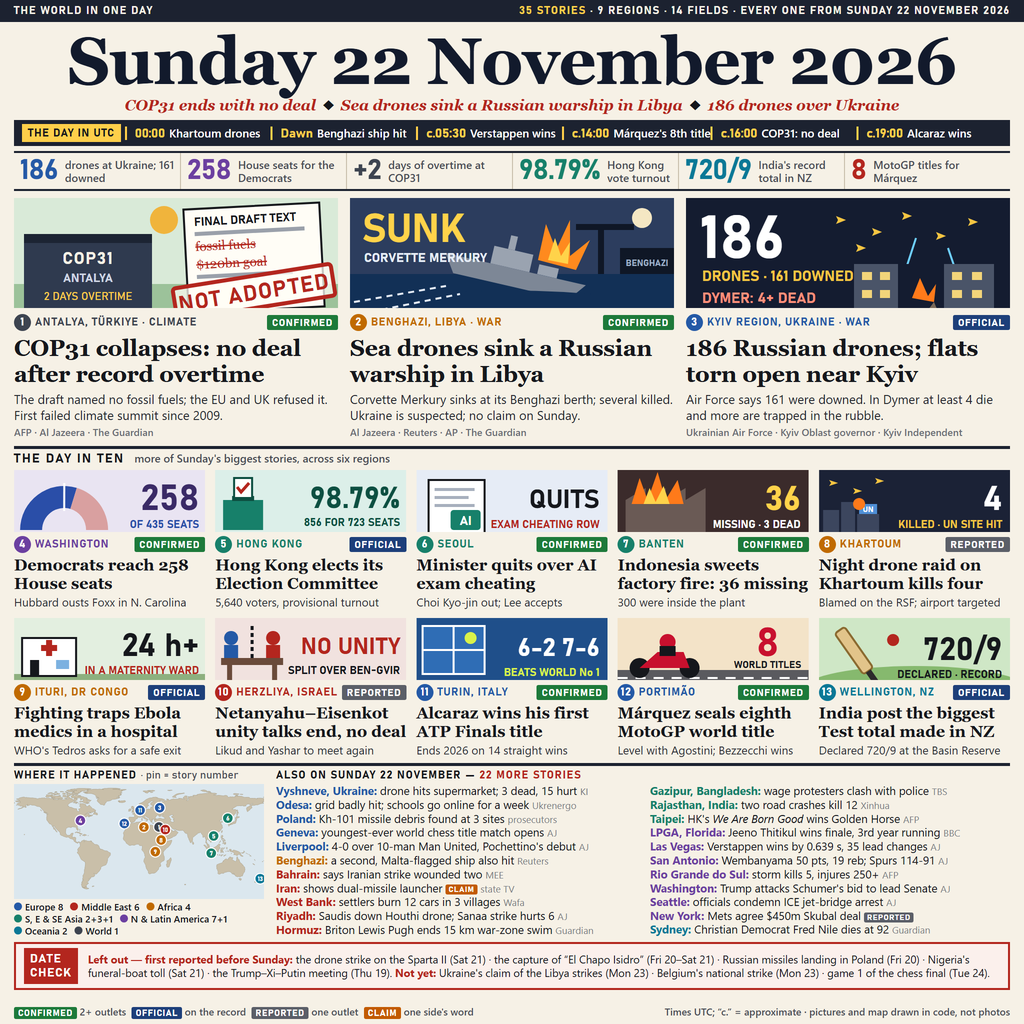
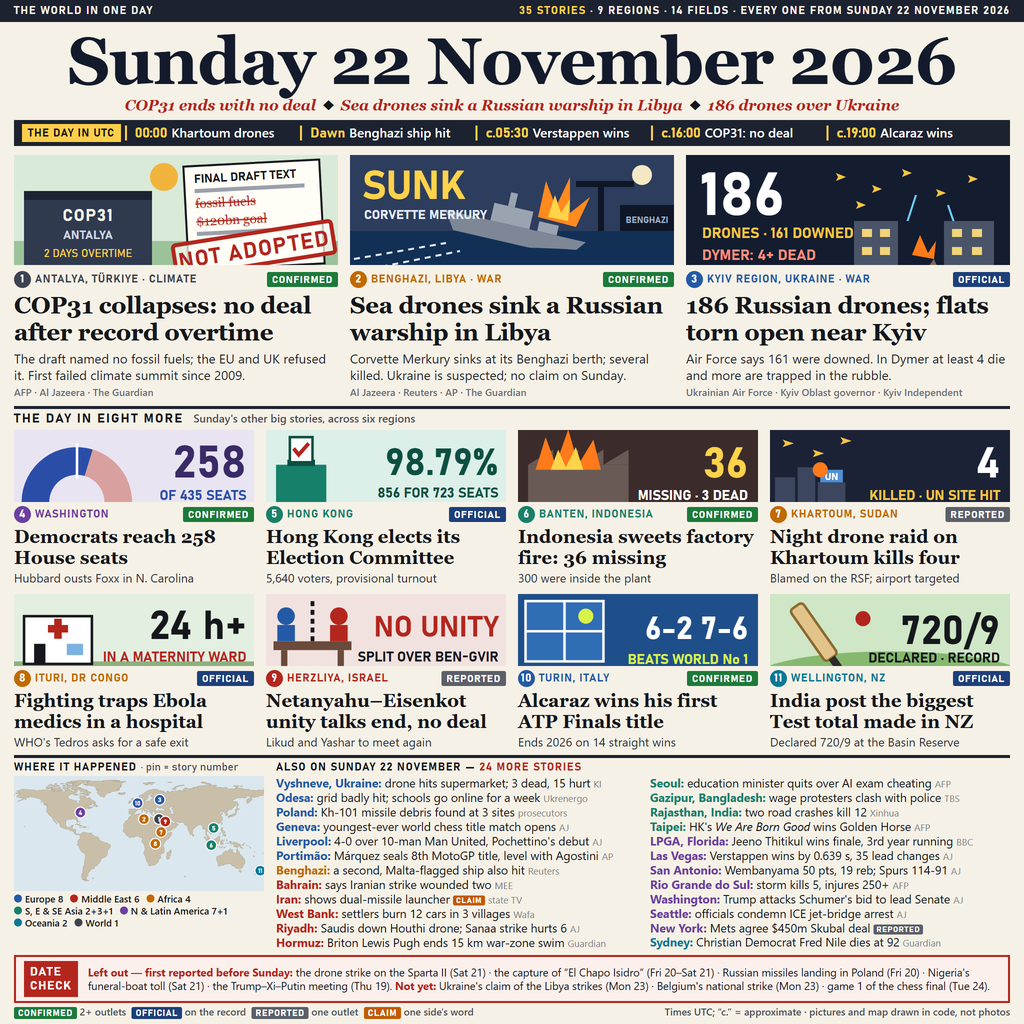
v2: eight wider cards with larger type, no numbers strip, 24 briefs

diff --git a/src/front.html b/src/front.html
@@ -29,8 +29,8 @@
   .tl { margin: 5px 14px 0; height: 26px; background: var(--rule); color: #fff; display: flex; align-items: center;
     padding: 0 8px; gap: 0; }
   .tl .lab { white-space: nowrap; font: 700 11px/1 Bahnschrift, sans-serif; color: #15171c; background: #ffcf4a; padding: 4px 6px 3px; letter-spacing: .06em; margin-right: 4px; }
-  .tl .ev { flex: 1; font: 600 11.5px/1.1 "Segoe UI", sans-serif; white-space: nowrap; padding-left: 8px; border-left: 2px solid #ffcf4a; }
-  .tl .ev b { font: 700 13px/1 Bahnschrift, sans-serif; color: #ffcf4a; margin-right: 4px; }
+  .tl .ev { flex: 1; font: 600 13px/1.1 "Segoe UI", sans-serif; white-space: nowrap; padding-left: 8px; border-left: 2px solid #ffcf4a; }
+  .tl .ev b { font: 700 14px/1 Bahnschrift, sans-serif; color: #ffcf4a; margin-right: 4px; }
 
   /* numbers */
   .nums { margin: 5px 14px 0; display: grid; grid-template-columns: repeat(6, 1fr); border-top: 2px solid var(--rule); border-bottom: 2px solid var(--rule); }
@@ -46,22 +46,22 @@
   .no { display: inline-block; width: 17px; height: 17px; border-radius: 50%; color: #fff; font: 700 11px/17px Bahnschrift, sans-serif; text-align: center; margin-right: 4px; vertical-align: middle; }
 
   /* leads */
-  .leads { margin: 7px 14px 0; display: grid; grid-template-columns: repeat(3, 1fr); gap: 12px; }
+  .leads { margin: 9px 14px 0; display: grid; grid-template-columns: repeat(3, 1fr); gap: 12px; }
   .lead svg { display: block; width: 100%; height: 110px; }
   .lead .meta { display: flex; justify-content: space-between; align-items: center; margin-top: 6px; }
-  .lead h2 { font: 700 23px/26px Georgia, serif; margin-top: 4px; letter-spacing: -.2px; }
-  .lead p { font: 400 12.5px/16px "Segoe UI", sans-serif; color: #24272e; margin-top: 4px; }
+  .lead h2 { font: 700 24px/27px Georgia, serif; margin-top: 4px; letter-spacing: -.3px; }
+  .lead p { font: 400 13px/16.5px "Segoe UI", sans-serif; color: #24272e; margin-top: 4px; }
   .src { font: 600 10px/12px "Segoe UI", sans-serif; color: #6a6d74; margin-top: 3px; }
 
   /* cards */
   .sec { margin: 8px 14px 0; display: flex; align-items: baseline; gap: 10px; border-top: 3px solid var(--rule); padding-top: 3px; }
   .sec h3 { font: 700 13px/1 Bahnschrift, sans-serif; letter-spacing: .1em; }
   .sec span { font: 600 11px/1 "Segoe UI", sans-serif; color: var(--soft); }
-  .cards { margin: 5px 14px 0; display: grid; grid-template-columns: repeat(5, 1fr); gap: 9px 10px; }
-  .card svg { display: block; width: 100%; height: 62px; }
+  .cards { margin: 5px 14px 0; display: grid; grid-template-columns: repeat(4, 1fr); gap: 9px 12px; }
+  .card svg { display: block; width: 100%; height: 72px; }
   .card .meta { display: flex; justify-content: space-between; align-items: center; margin-top: 4px; }
-  .card h4 { font: 700 16px/18.5px Georgia, serif; margin-top: 3px; }
-  .card p { font: 400 11.5px/14px "Segoe UI", sans-serif; color: #2b2e35; margin-top: 2px; }
+  .card h4 { font: 700 18.5px/21px Georgia, serif; margin-top: 3px; }
+  .card p { font: 400 12px/15px "Segoe UI", sans-serif; color: #2b2e35; margin-top: 2px; }
 
   /* bottom */
   .bottom { margin: 6px 14px 0; display: grid; grid-template-columns: 250px 1fr; gap: 12px; border-top: 3px solid var(--rule); padding-top: 4px; }
@@ -73,7 +73,7 @@
   .also h3 { font: 700 11px/1 Bahnschrift, sans-serif; letter-spacing: .08em; }
   .also h3 b { color: var(--me); }
   .also ul { list-style: none; columns: 2; column-gap: 14px; margin-top: 3px; }
-  .also li { font: 400 11.3px/13.4px "Segoe UI", sans-serif; white-space: nowrap; overflow: hidden; }
+  .also li { font: 400 11.8px/14px "Segoe UI", sans-serif; white-space: nowrap; overflow: hidden; }
   .also li b { font-weight: 700; }
   .also li em { font-style: normal; color: #7a7d84; font-size: 9.5px; }
 
@@ -96,19 +96,10 @@
   <div class="ev"><b>00:00</b>Khartoum drones</div>
   <div class="ev"><b>Dawn</b>Benghazi ship hit</div>
   <div class="ev"><b>c.05:30</b>Verstappen wins</div>
-  <div class="ev"><b>c.14:00</b>Márquez's 8th title</div>
   <div class="ev"><b>c.16:00</b>COP31: no deal</div>
   <div class="ev"><b>c.19:00</b>Alcaraz wins</div>
 </div>
 
-<div class="nums">
-  <div class="num"><div class="n" style="color:var(--eu)">186</div><div class="t">drones at Ukraine; 161 downed</div></div>
-  <div class="num"><div class="n" style="color:var(--am)">258</div><div class="t">House seats for the Democrats</div></div>
-  <div class="num"><div class="n" style="color:var(--gl)">+2</div><div class="t">days of overtime at COP31</div></div>
-  <div class="num"><div class="n" style="color:var(--as)">98.79%</div><div class="t">Hong Kong vote turnout</div></div>
-  <div class="num"><div class="n" style="color:var(--oc)">720/9</div><div class="t">India's record total in NZ</div></div>
-  <div class="num"><div class="n" style="color:var(--me)">8</div><div class="t">MotoGP titles for Márquez</div></div>
-</div>
 
 <div class="leads">
   <!-- 1 COP31 -->
@@ -205,11 +196,11 @@
   </div>
 </div>
 
-<div class="sec"><h3>THE DAY IN TEN</h3><span>more of Sunday's biggest stories, across six regions</span></div>
+<div class="sec"><h3>THE DAY IN EIGHT MORE</h3><span>Sunday's other big stories, across six regions</span></div>
 <div class="cards">
   <!-- 4 Democrats -->
   <div class="card">
-    <svg viewBox="0 0 191 62" xmlns="http://www.w3.org/2000/svg">
+    <svg viewBox="0 0 191 62" preserveAspectRatio="xMidYMid slice" xmlns="http://www.w3.org/2000/svg">
       <rect width="191" height="66" fill="#e9e4f2"/>
       {{SEAT_ARC}}
       <text x="185" y="40" font-family="Bahnschrift" font-weight="700" font-size="36" fill="#3a2a66" text-anchor="end">258</text>
@@ -221,7 +212,7 @@
   </div>
   <!-- 5 Hong Kong -->
   <div class="card">
-    <svg viewBox="0 0 191 62" xmlns="http://www.w3.org/2000/svg">
+    <svg viewBox="0 0 191 62" preserveAspectRatio="xMidYMid slice" xmlns="http://www.w3.org/2000/svg">
       <rect width="191" height="66" fill="#dcefe9"/>
       <rect x="8" y="30" width="40" height="30" fill="#17806a"/><rect x="17" y="26" width="22" height="5" fill="#0d4f41"/>
       <path d="M19 8 L37 8 L37 28 L19 28 Z" fill="#fff" stroke="#0d4f41" stroke-width="2"/><path d="M22 17 l4 5 l8 -9" stroke="#b3261e" stroke-width="3" fill="none"/>
@@ -232,36 +223,22 @@
     <h4>Hong Kong elects its Election Committee</h4>
     <p>5,640 voters, provisional turnout</p>
   </div>
-  <!-- 6 Seoul -->
-  <div class="card">
-    <svg viewBox="0 0 191 62" xmlns="http://www.w3.org/2000/svg">
-      <rect width="191" height="70" fill="#e6ecf6"/>
-      <rect x="12" y="10" width="56" height="54" fill="#fff" stroke="#15171c" stroke-width="2"/>
-      <g fill="#a7afbd"><rect x="18" y="18" width="40" height="3"/><rect x="18" y="26" width="34" height="3"/><rect x="18" y="34" width="40" height="3"/></g>
-      <rect x="34" y="40" width="30" height="20" rx="3" fill="#17806a"/><text x="49" y="55" font-family="Bahnschrift" font-weight="700" font-size="13" fill="#fff" text-anchor="middle">AI</text>
-      <text x="183" y="38" font-family="Bahnschrift" font-weight="700" font-size="26" fill="#15171c" text-anchor="end">QUITS</text>
-      <text x="183" y="58" font-family="Bahnschrift" font-weight="700" font-size="11" fill="#b3261e" text-anchor="end">EXAM CHEATING ROW</text>
-    </svg>
-    <div class="meta"><span class="kick" style="color:var(--as)"><span class="no" style="background:var(--as)">6</span>Seoul</span><span class="tag t-ok">CONFIRMED</span></div>
-    <h4>Minister quits over AI exam cheating</h4>
-    <p>Choi Kyo-jin out; Lee accepts</p>
-  </div>
   <!-- 7 Banten -->
   <div class="card">
-    <svg viewBox="0 0 191 62" xmlns="http://www.w3.org/2000/svg">
+    <svg viewBox="0 0 191 62" preserveAspectRatio="xMidYMid slice" xmlns="http://www.w3.org/2000/svg">
       <rect width="191" height="70" fill="#3b2b2b"/>
       <rect x="8" y="30" width="80" height="40" fill="#6a5a55"/><path d="M8 30 L28 18 L28 30 L48 18 L48 30 L68 18 L68 30 L88 18 L88 30 Z" fill="#6a5a55"/>
       <path d="M14 34 L22 8 L30 30 L40 2 L48 30 L60 10 L66 34 Z" fill="#ff7a1a"/><path d="M26 34 L32 18 L38 32 L46 16 L52 34 Z" fill="#ffd34a"/>
       <text x="183" y="40" font-family="Bahnschrift" font-weight="700" font-size="34" fill="#ffd34a" text-anchor="end">36</text>
       <text x="183" y="58" font-family="Bahnschrift" font-weight="700" font-size="11" fill="#fff" text-anchor="end">MISSING · 3 DEAD</text>
     </svg>
-    <div class="meta"><span class="kick" style="color:var(--as)"><span class="no" style="background:var(--as)">7</span>Banten</span><span class="tag t-ok">CONFIRMED</span></div>
+    <div class="meta"><span class="kick" style="color:var(--as)"><span class="no" style="background:var(--as)">6</span>Banten, Indonesia</span><span class="tag t-ok">CONFIRMED</span></div>
     <h4>Indonesia sweets factory fire: 36 missing</h4>
     <p>300 were inside the plant</p>
   </div>
   <!-- 8 Khartoum -->
   <div class="card">
-    <svg viewBox="0 0 191 62" xmlns="http://www.w3.org/2000/svg">
+    <svg viewBox="0 0 191 62" preserveAspectRatio="xMidYMid slice" xmlns="http://www.w3.org/2000/svg">
       <rect width="191" height="70" fill="#1b2236"/>
       <g fill="#3c465e"><rect x="4" y="40" width="16" height="26"/><rect x="22" y="32" width="14" height="34"/><rect x="38" y="44" width="22" height="22"/></g>
       <rect x="40" y="34" width="18" height="10" fill="#4f8fd6"/><text x="49" y="42" font-family="Bahnschrift" font-weight="700" font-size="8" fill="#fff" text-anchor="middle">UN</text>
@@ -270,14 +247,14 @@
       <text x="183" y="40" font-family="Bahnschrift" font-weight="700" font-size="34" fill="#fff" text-anchor="end">4</text>
       <text x="183" y="58" font-family="Bahnschrift" font-weight="700" font-size="11" fill="#f4c542" text-anchor="end">KILLED · UN SITE HIT</text>
     </svg>
-    <div class="meta"><span class="kick" style="color:var(--af)"><span class="no" style="background:var(--af)">8</span>Khartoum</span><span class="tag t-rep">REPORTED</span></div>
+    <div class="meta"><span class="kick" style="color:var(--af)"><span class="no" style="background:var(--af)">7</span>Khartoum, Sudan</span><span class="tag t-rep">REPORTED</span></div>
     <h4>Night drone raid on Khartoum kills four</h4>
     <p>Blamed on the RSF; airport targeted</p>
   </div>
 
   <!-- 9 Ituri -->
   <div class="card">
-    <svg viewBox="0 0 191 62" xmlns="http://www.w3.org/2000/svg">
+    <svg viewBox="0 0 191 62" preserveAspectRatio="xMidYMid slice" xmlns="http://www.w3.org/2000/svg">
       <rect width="191" height="70" fill="#e3efe0"/>
       <rect y="56" width="191" height="14" fill="#8db07f"/>
       <rect x="8" y="20" width="54" height="38" fill="#fff" stroke="#15171c" stroke-width="2"/>
@@ -286,13 +263,13 @@
       <text x="185" y="38" font-family="Bahnschrift" font-weight="700" font-size="32" fill="#15171c" text-anchor="end">24 h+</text>
       <text x="185" y="56" font-family="Bahnschrift" font-weight="700" font-size="11" fill="#b3261e" text-anchor="end">IN A MATERNITY WARD</text>
     </svg>
-    <div class="meta"><span class="kick" style="color:var(--af)"><span class="no" style="background:var(--af)">9</span>Ituri, DR Congo</span><span class="tag t-off">OFFICIAL</span></div>
+    <div class="meta"><span class="kick" style="color:var(--af)"><span class="no" style="background:var(--af)">8</span>Ituri, DR Congo</span><span class="tag t-off">OFFICIAL</span></div>
     <h4>Fighting traps Ebola medics in a hospital</h4>
     <p>WHO's Tedros asks for a safe exit</p>
   </div>
   <!-- 10 Herzliya -->
   <div class="card">
-    <svg viewBox="0 0 191 62" xmlns="http://www.w3.org/2000/svg">
+    <svg viewBox="0 0 191 62" preserveAspectRatio="xMidYMid slice" xmlns="http://www.w3.org/2000/svg">
       <rect width="191" height="70" fill="#f1e2df"/>
       <rect x="6" y="40" width="62" height="7" fill="#6a4a3a"/><rect x="12" y="47" width="5" height="16" fill="#6a4a3a"/><rect x="57" y="47" width="5" height="16" fill="#6a4a3a"/>
       <circle cx="16" cy="20" r="7" fill="#2459a6"/><rect x="9" y="27" width="14" height="13" fill="#2459a6"/>
@@ -301,49 +278,34 @@
       <text x="185" y="36" font-family="Bahnschrift" font-weight="700" font-size="23" fill="#b3261e" text-anchor="end">NO UNITY</text>
       <text x="185" y="56" font-family="Bahnschrift" font-weight="700" font-size="11" fill="#15171c" text-anchor="end">SPLIT OVER BEN-GVIR</text>
     </svg>
-    <div class="meta"><span class="kick" style="color:var(--me)"><span class="no" style="background:var(--me)">10</span>Herzliya, Israel</span><span class="tag t-rep">REPORTED</span></div>
+    <div class="meta"><span class="kick" style="color:var(--me)"><span class="no" style="background:var(--me)">9</span>Herzliya, Israel</span><span class="tag t-rep">REPORTED</span></div>
     <h4>Netanyahu–Eisenkot unity talks end, no deal</h4>
     <p>Likud and Yashar to meet again</p>
   </div>
   <!-- 11 Turin -->
   <div class="card">
-    <svg viewBox="0 0 191 62" xmlns="http://www.w3.org/2000/svg">
+    <svg viewBox="0 0 191 62" preserveAspectRatio="xMidYMid slice" xmlns="http://www.w3.org/2000/svg">
       <rect width="191" height="70" fill="#1f4f8a"/>
       <rect x="6" y="8" width="62" height="48" fill="#2f6db5" stroke="#fff" stroke-width="2"/><path d="M37 8 L37 56 M6 32 L68 32" stroke="#fff" stroke-width="2"/>
       <circle cx="54" cy="20" r="6" fill="#d9f24a"/>
       <text x="183" y="38" font-family="Bahnschrift" font-weight="700" font-size="25" fill="#fff" text-anchor="end">6-2 7-6</text>
       <text x="183" y="58" font-family="Bahnschrift" font-weight="700" font-size="11" fill="#d9f24a" text-anchor="end">BEATS WORLD No 1</text>
     </svg>
-    <div class="meta"><span class="kick" style="color:var(--eu)"><span class="no" style="background:var(--eu)">11</span>Turin, Italy</span><span class="tag t-ok">CONFIRMED</span></div>
+    <div class="meta"><span class="kick" style="color:var(--eu)"><span class="no" style="background:var(--eu)">10</span>Turin, Italy</span><span class="tag t-ok">CONFIRMED</span></div>
     <h4>Alcaraz wins his first ATP Finals title</h4>
     <p>Ends 2026 on 14 straight wins</p>
   </div>
-  <!-- 12 Portimao -->
-  <div class="card">
-    <svg viewBox="0 0 191 62" xmlns="http://www.w3.org/2000/svg">
-      <rect width="191" height="70" fill="#f3e3c8"/>
-      <rect y="52" width="191" height="18" fill="#5a5a5f"/><path d="M0 60 L191 60" stroke="#fff" stroke-width="2" stroke-dasharray="10 8"/>
-      <circle cx="22" cy="50" r="10" fill="#15171c"/><circle cx="72" cy="50" r="10" fill="#15171c"/>
-      <path d="M22 50 L40 34 L66 34 L72 50 Z" fill="#c8102e"/><circle cx="50" cy="24" r="8" fill="#c8102e"/><rect x="42" y="28" width="16" height="10" fill="#15171c"/>
-      <rect x="112" y="0" width="79" height="52" fill="#f3e3c8"/>
-      <text x="150" y="38" font-family="Bahnschrift" font-weight="700" font-size="40" fill="#c8102e" text-anchor="middle">8</text>
-      <text x="150" y="50" font-family="Bahnschrift" font-weight="700" font-size="10" fill="#15171c" text-anchor="middle">WORLD TITLES</text>
-    </svg>
-    <div class="meta"><span class="kick" style="color:var(--eu)"><span class="no" style="background:var(--eu)">12</span>Portimão</span><span class="tag t-ok">CONFIRMED</span></div>
-    <h4>Márquez seals eighth MotoGP world title</h4>
-    <p>Level with Agostini; Bezzecchi wins</p>
-  </div>
   <!-- 13 Wellington -->
   <div class="card">
-    <svg viewBox="0 0 191 62" xmlns="http://www.w3.org/2000/svg">
+    <svg viewBox="0 0 191 62" preserveAspectRatio="xMidYMid slice" xmlns="http://www.w3.org/2000/svg">
       <rect width="191" height="70" fill="#cfe7c6"/>
       <ellipse cx="96" cy="70" rx="110" ry="22" fill="#86b96e"/>
       <g transform="rotate(-35 40 40)"><rect x="34" y="6" width="12" height="50" rx="3" fill="#e2c48a" stroke="#8a6a30" stroke-width="2"/><rect x="37" y="56" width="6" height="14" fill="#2b2b2b"/></g>
       <circle cx="74" cy="22" r="6" fill="#b3261e"/>
       <text x="183" y="42" font-family="Bahnschrift" font-weight="700" font-size="32" fill="#15171c" text-anchor="end">720/9</text>
-      <text x="183" y="60" font-family="Bahnschrift" font-weight="700" font-size="11" fill="#15171c" text-anchor="end">DECLARED · RECORD</text>
+      <text x="183" y="57" font-family="Bahnschrift" font-weight="700" font-size="11" fill="#15171c" text-anchor="end">DECLARED · RECORD</text>
     </svg>
-    <div class="meta"><span class="kick" style="color:var(--oc)"><span class="no" style="background:var(--oc)">13</span>Wellington, NZ</span><span class="tag t-off">OFFICIAL</span></div>
+    <div class="meta"><span class="kick" style="color:var(--oc)"><span class="no" style="background:var(--oc)">11</span>Wellington, NZ</span><span class="tag t-off">OFFICIAL</span></div>
     <h4>India post the biggest Test total made in NZ</h4>
     <p>Declared 720/9 at the Basin Reserve</p>
   </div>
@@ -363,19 +325,21 @@
     </div>
   </div>
   <div class="also">
-    <h3>ALSO ON SUNDAY 22 NOVEMBER — <b>22 MORE STORIES</b></h3>
+    <h3>ALSO ON SUNDAY 22 NOVEMBER — <b>24 MORE STORIES</b></h3>
     <ul>
       <li><b style="color:var(--eu)">Vyshneve, Ukraine:</b> drone hits supermarket; 3 dead, 15 hurt <em>KI</em></li>
       <li><b style="color:var(--eu)">Odesa:</b> grid badly hit; schools go online for a week <em>Ukrenergo</em></li>
       <li><b style="color:var(--eu)">Poland:</b> Kh-101 missile debris found at 3 sites <em>prosecutors</em></li>
       <li><b style="color:var(--eu)">Geneva:</b> youngest-ever world chess title match opens <em>AJ</em></li>
       <li><b style="color:var(--eu)">Liverpool:</b> 4-0 over 10-man Man United, Pochettino's debut <em>AJ</em></li>
+      <li><b style="color:var(--eu)">Portimão:</b> Márquez seals 8th MotoGP title, level with Agostini <em>AP</em></li>
       <li><b style="color:var(--af)">Benghazi:</b> a second, Malta-flagged ship also hit <em>Reuters</em></li>
       <li><b style="color:var(--me)">Bahrain:</b> says Iranian strike wounded two <em>MEE</em></li>
       <li><b style="color:var(--me)">Iran:</b> shows dual-missile launcher <span class="tag t-claim" style="font-size:8px;padding:1px 3px">CLAIM</span> <em>state TV</em></li>
       <li><b style="color:var(--me)">West Bank:</b> settlers burn 12 cars in 3 villages <em>Wafa</em></li>
       <li><b style="color:var(--me)">Riyadh:</b> Saudis down Houthi drone; Sanaa strike hurts 6 <em>AJ</em></li>
       <li><b style="color:var(--me)">Hormuz:</b> Briton Lewis Pugh ends 15 km war-zone swim <em>Guardian</em></li>
+      <li><b style="color:var(--as)">Seoul:</b> education minister quits over AI exam cheating <em>AFP</em></li>
       <li><b style="color:var(--as)">Gazipur, Bangladesh:</b> wage protesters clash with police <em>TBS</em></li>
       <li><b style="color:var(--as)">Rajasthan, India:</b> two road crashes kill 12 <em>Xinhua</em></li>
       <li><b style="color:var(--as)">Taipei:</b> HK's <i>We Are Born Good</i> wins Golden Horse <em>AFP</em></li>

diff --git a/tools/build.py b/tools/build.py
@@ -26,18 +26,15 @@ PINS = {
     3: (30.4, 50.8, "eu"),     # Dymer, Kyiv region
     4: (-77.0, 38.9, "am"),    # Washington
     5: (114.17, 22.3, "as"),   # Hong Kong
-    6: (126.98, 37.57, "as"),  # Seoul
-    7: (106.15, -6.12, "as"),  # Serang, Banten
-    8: (32.53, 15.5, "af"),    # Khartoum
-    9: (30.25, 1.56, "af"),    # Ituri
-    10: (34.84, 32.16, "me"),  # Herzliya
-    11: (7.68, 45.07, "eu"),   # Turin
-    12: (-8.54, 37.14, "eu"),  # Portimao
-    13: (174.78, -41.29, "oc"),  # Wellington
+    6: (106.15, -6.12, "as"),  # Serang, Banten
+    7: (32.53, 15.5, "af"),    # Khartoum
+    8: (30.25, 1.56, "af"),    # Ituri
+    9: (34.84, 32.16, "me"),   # Herzliya
+    10: (7.68, 45.07, "eu"),   # Turin
+    11: (174.78, -41.29, "oc"),  # Wellington
 }
 # small nudges (px) so pins in crowded spots do not cover each other
-NUDGE = {1: (2, 6), 2: (-7, 2), 3: (3, -5), 10: (6, 5), 11: (-1, -7), 12: (-6, 2), 8: (3, 3), 9: (-2, 5),
-         5: (-4, 4), 6: (2, -4)}
+NUDGE = {1: (2, 6), 2: (-7, 2), 3: (3, -5), 9: (6, 5), 10: (-4, -6), 7: (3, 3), 8: (-2, 5), 5: (-4, 4)}
 
 
 def rings(geom):

diff --git a/README.md b/README.md
@@ -11,12 +11,14 @@ bounty "Sum up 22 November's world news in one image".
 
 Three leads: COP31 in Antalya ends with no agreed text after two days of overtime; sea drones sink the
 Russian corvette Merkury in Benghazi, Libya; and Russia sends 186 drones at Ukraine, tearing open a block
-of flats in Dymer. Ten drawn cards follow (Democrats reach 258 House seats, Hong Kong's Election
-Committee vote, Seoul's education minister quits over AI exam cheating, the Banten sweets-factory fire,
-drones over Khartoum, Ebola medics trapped in Ituri, Netanyahu–Eisenkot talks fail, Alcaraz in Turin,
-Márquez's eighth title, India's 720/9 in Wellington), then 22 short items, a UTC timeline, a numbers
-strip, a world map keyed to the story numbers and a date check naming what was left out because it was
-first reported before Sunday or came after it.
+of flats in Dymer. Eight drawn cards follow, each with its number in large type (Democrats reach 258
+House seats, Hong Kong's Election Committee vote, the Banten sweets-factory fire, drones over Khartoum,
+Ebola medics trapped in Ituri, Netanyahu–Eisenkot talks fail, Alcaraz in Turin, India's 720/9 in
+Wellington), then 24 short items, a UTC timeline, a world map keyed to the story numbers and a date
+check naming what was left out because it was first reported before Sunday or came after it.
+
+v2 trades the numbers strip and two small cards for four wider cards per row and larger type, so each
+story still reads when the page is shrunk to about 300 px.
 
 Each story carries a tag: CONFIRMED (two or more outlets), OFFICIAL (on the record), REPORTED (one
 outlet) or CLAIM (one side's word). [docs/sources.md](docs/sources.md) lists the outlet behind every line.
